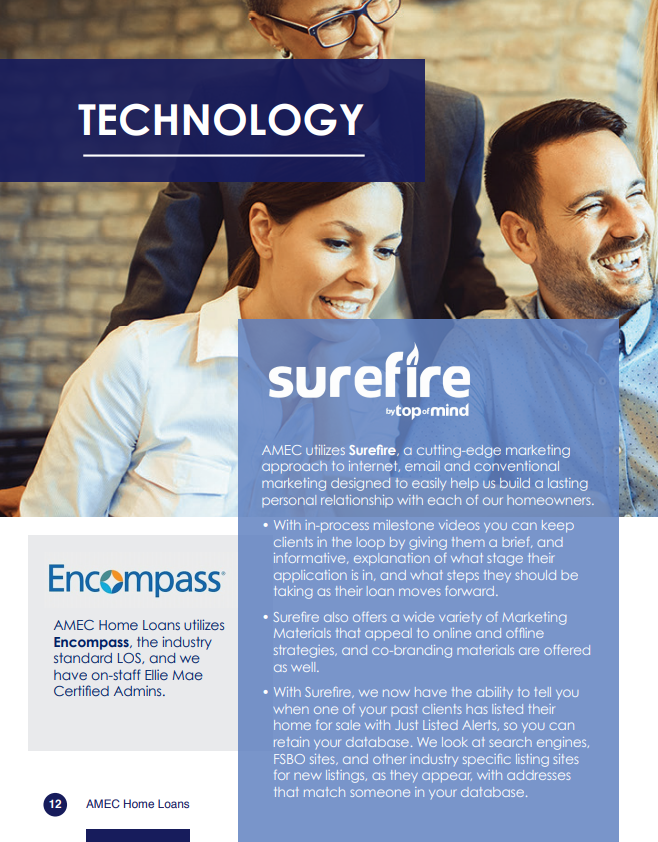
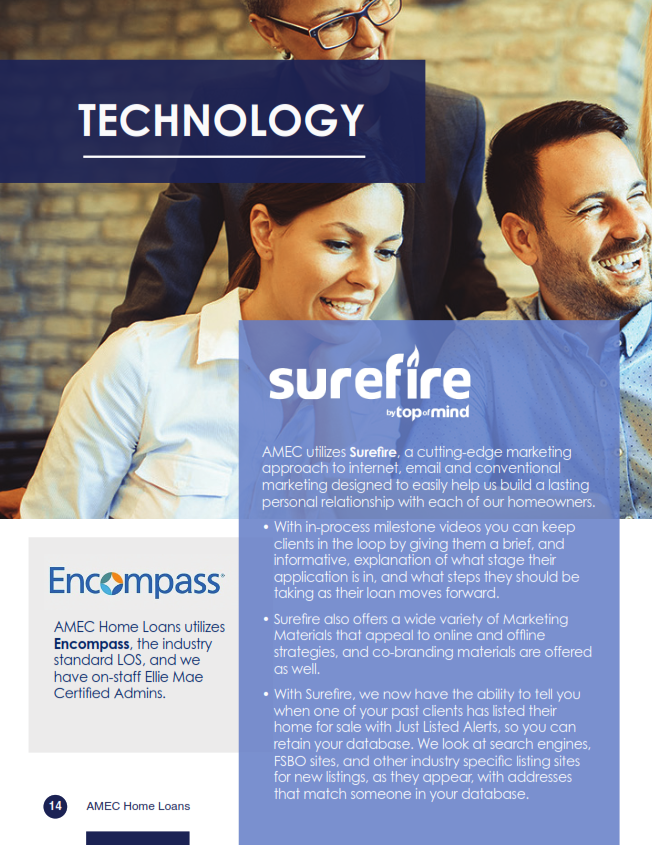
images change

diff --git a/js/flipbook.js b/js/flipbook.js
@@ -28,13 +28,14 @@ $(document).ready(function(){
 
 	$("#flipbook").bind("turning", function(event, page, view) {
 		count = page
-		if(count >= 2) {
-			if((count - 2) === 0) {
-				$('#number').html(1);
-			} else {
-				$('#number').html(count - 2);
-			}			
-		} 		
+		$('#number').html(count);
+		// if(count >= 2) {
+		// 	if((count - 2) === 0) {
+		// 		$('#number').html(1);
+		// 	} else {
+		// 		$('#number').html(count - 2);
+		// 	}			
+		// } 		
 		if($(window).width() > 850) {		
 			if (page == 2) {
 				$("#flipbook").css("margin", "0 auto")

diff --git a/css/nav.css b/css/nav.css
@@ -103,7 +103,7 @@ h4 {
     font-family: 'Roboto', sans-serif;
 }
 
-@media (max-width: 499px) {
+@media (orientation: portrait), (max-width: 499px) {
     header {
         padding: 0 3vw;
         flex-flow: column;
